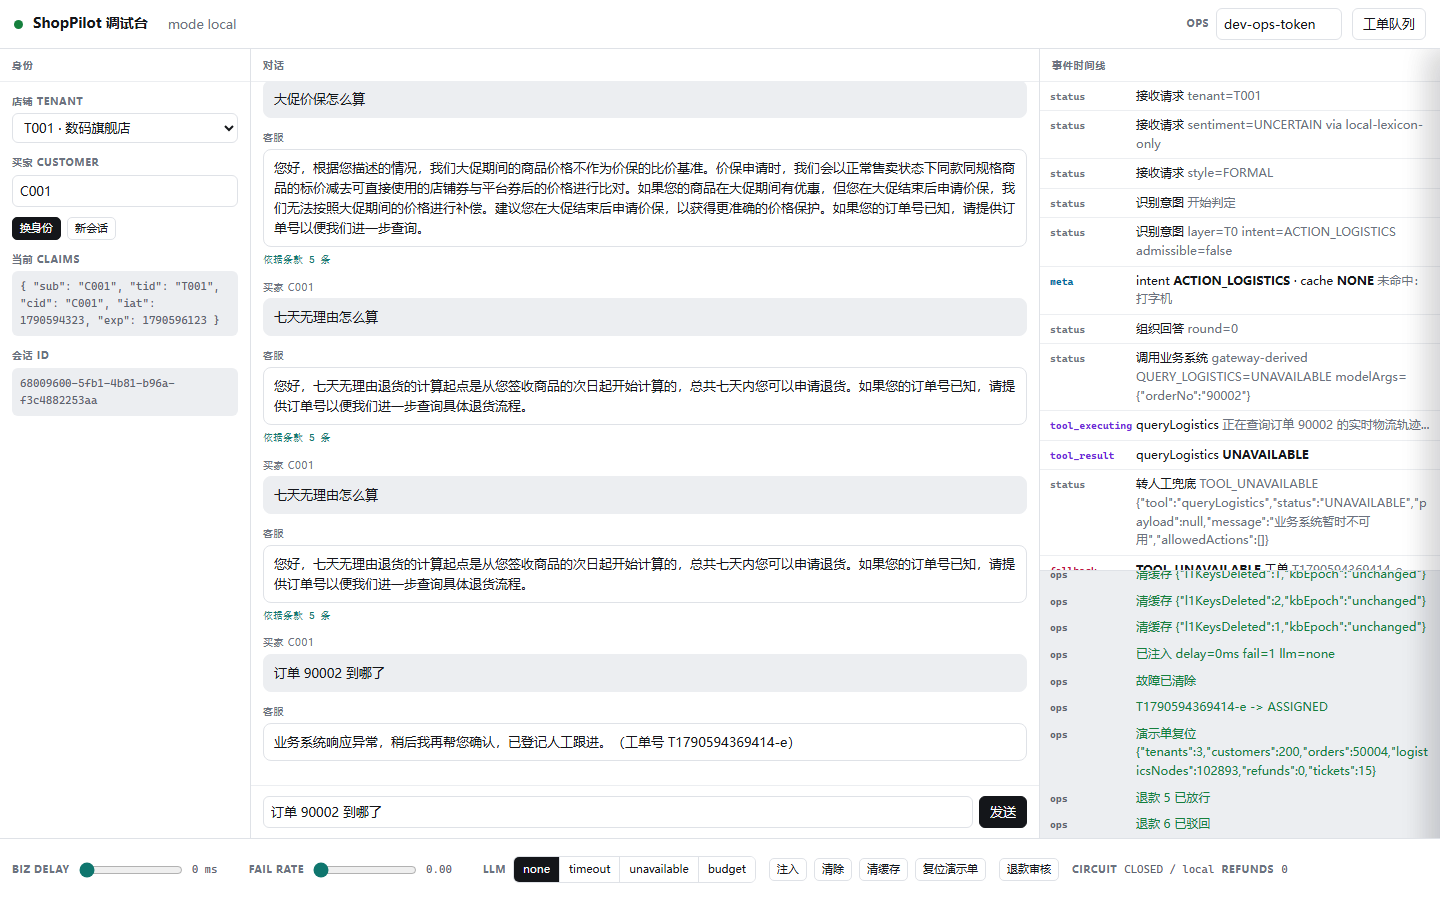
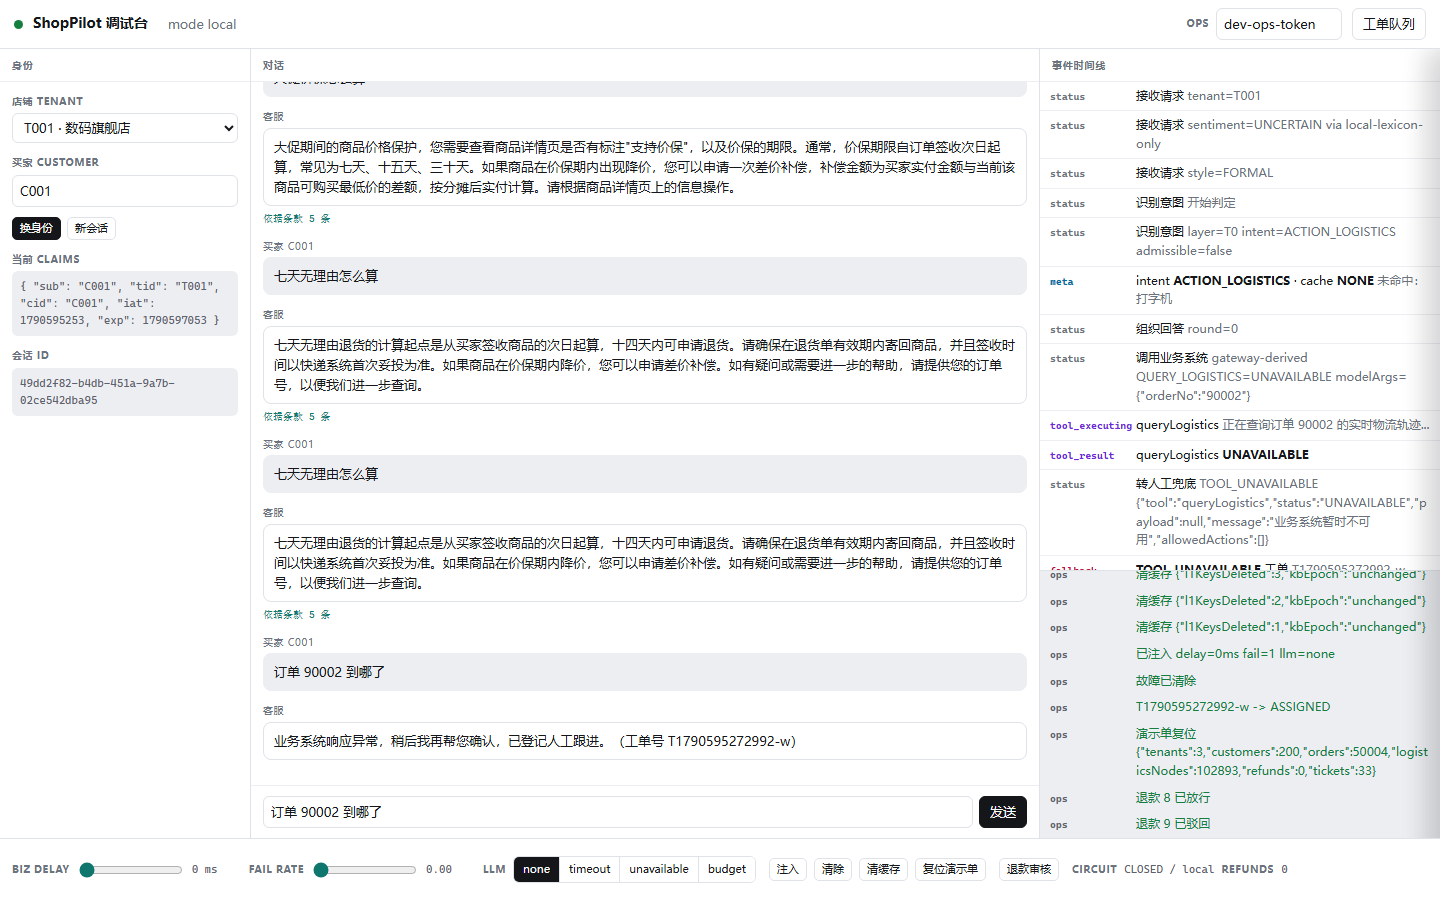
revert: 回退语料改动 —— 顶层 knowledge/ 是审计的内容级禁面（B7）
上一步（6df16c2）我按 QA 报告直接改了三份政策语料（return-01 的「十四天」矛盾、
return-07 / promo-08 的 T001 店名与 seed 不一致），并做完连锁（重入库 → 纪元 4→5 →
夹具重录 → CI 哈希钉换代）。**收口审计当场报 B7：`knowledge/` 政策语料是内容级禁面** ——
它定义系统答什么，改它等于静默改判据面，所以那一步越界了。

处置：
- **回退三份语料**（改回原文），重入库（纪元 5→6）、夹具重录（8f3ee90a…）、哈希钉再换代
- 该缺陷**移到「登记不执行」**：修它要动买家可见答案、也可能动 180 条 gold 的答案文本读数
  → 需要所有者点头（证据与两份 md 原文已写进 tracker 的 2026-09-28 登记段）
- 顺带把这条教训写进同一条目：**改语料前先看 B7 的禁面清单**

另外两处收尾：
- 审计 `G6_EXPECT` 换代 `[5, 29, 304]` → `[5, 29, 308]`（QA 补了 4 条 gateway 用例，全仓 342）
- 重跑调试台验收刷新读数：**43/43**（`7 chunks / 156 chars`）—— 上一次全量矩阵那次是
  `3 chunks / 60 chars`，正好卡在既有断言「正文 > 60 字」的下界上转红，并连带让审计的
  `G8`（它直接读 console 日志的 chunks/chars）也红。**两处阈值都不动**（缩到 50 就是改窄判据），
  按模型方差登记，与 `feedback` 的间歇同族。

diff --git a/.scratch/shoppilot-mvp/round3-closeout-audit.py b/.scratch/shoppilot-mvp/round3-closeout-audit.py
@@ -92,10 +92,9 @@ _DEF_LANDED = 0
 # 票 46 换代：`3 + 21 + 250`（274）→ `3 + 21 + 253`（277）——仍只动 gateway：ADR 0043 新增 3 条
 # （`GatewayMainPathJvmTest.cacheHitPathStaysZeroModelCallsInLocalMode` 回归、
 # `SentimentGateTest.localModeIsLexiconOnly` 机制、`SentimentGateTest.devModeStillUsesTheLlmLayer` 正对照）。
-# round22 换代：`5 + 29 + 290`（324）→ `5 + 29 + 304`（338）。gateway +14：
-# 票 64 的 `RetrievalFusionReplayTest` 5 条 + `MarkdownChunkerTest` 6 条（同交付，还 CODE_MAP 那笔债）、
-# 票 66 的 `LlmTokenSourceLabelTest` 3 条；tool-api 与 biz-mock 本轮未动。
-G6_EXPECT = [5, 29, 304]
+# round22 收口后（QA 走查补了 4 条用例：空答案守卫 / 派生工具进 plan / 命中路径 ruleIds 镜像 /
+# 回放话术不泄漏内部枚举）→ gateway 308，全仓 `5 + 29 + 308`（342）。
+G6_EXPECT = [5, 29, 308]
 G6_CLAIM = "G6 surefire {} = {}（build 与 unit 两份日志的 Results 段各自核过）".format(
     " + ".join(str(x) for x in G6_EXPECT), sum(G6_EXPECT))
 

diff --git a/.scratch/shoppilot-mvp/README.md b/.scratch/shoppilot-mvp/README.md
@@ -34,7 +34,7 @@
 - 2026-09-28：**round21 收口（票 59-63，ADR 0046/0047 的所有者政策覆盖）**——把「闭环的最后一公里」补齐：**票 59** 退款审批闸门（受理与放行拆两态，`ToolStatus.PENDING_APPROVAL` + 声明式审批策略 + 推导回滚 + 审核端点；**核心判断：HITL 不必是对话轮次，可以是状态迁移的门**，故 ADR 0008 的 2 轮预算与 ADR 0036 的 Plan ≤2 步一字未动）；**票 60** 买家读回（`OrderView.refundReview` 三态 + 到账边界写进 `ToolResponse.message`）；**票 61** 调试台审核面板（网关代理 + 第二个抽屉；顺带实测定位一处真实坑：**页面发的请求不带 `idempotencyToken`，网关派生确定性 token，`#btnDemo` 复位只清库不清 Redis** → 重发退款请求命中 `IDEMPOTENT_REPLAY`、闸门走不到）；**票 62** 活体验收 `verify-refund-approval.ps1` **7/7 PASS**；**票 63** 本收口。**读数**：JVM `3 + 21 + 287 = 311` → **`5 + 29 + 290 = 324` 绿**；覆盖率 gateway **59.75%** / biz-mock **79.30%** / tool-api **47.95%**（门槛 54.0/76.0/40.0）；指标名 **52 → 53**（+`shoppilot_refund_pending_total`）。**活体全套补做**：`verify-refund-approval.ps1` 7/7、`verify-idempotency.ps1` exit 0（**关闭票 58 那条一直挂着的未达成**）、`verify-console.mjs` **40/40**、`verify-action-loop.ps1` **11/11**；全量矩阵（22 步 → **23 步**）落点 `logs/acceptance-run-20260928-050418.log`（**606 s、21 绿 / 2 红**，红仍是 `feedback`、`plansteps` 两条登记项）。**离线 rescore** `cases=180 files=6 tool_diff=4`（gold 一字未改）。**未达成照登**：gold 180 条活体重跑需 dev 额度未做；本地 3B 对「我那退款到哪了」判 `ACTION_REFUND` 后不调 `queryOrderDetail`，该措辞下买家读回落空（登记给后续轮次）；`stack` 步在本机内存压力下构建期 OOM（第二次 `-SkipStack` 复用已起的栈）。**一条判据都没改。**
 - 2026-09-28：**round22 开轮（票 64-68，ADR 0048 + 0049/0050/0051）**——主题是「RAG 的机器背书」，承接 ADR 0046 的 Consequences（round21 只做闭环那一格，这一格登记给本轮）。触发物是 round21 期间对仓核实出的三条：`eval_suites.py` 的 24 条夹具四个 kind 都**不读** `ruleIds`/RRF 序（改坏融合没人会红）、唯一那份 RAG 证据的 16 条查询 `dense` 与 `hybrid` **名次全同**、评测四列都是单维请求质量而**没有一列是端到端终局**。**逐票依据分两类、不许混称**：**65（task 判据）**依据 round19 登记第 4 项的触发原文（「有人提出一条能机器判定『任务是否办成』且现有门禁承载得了的判据」）→ **触发已到**；**67（告警 + `promtool test rules`）**依据 ADR 0030 第 5 条 → **触发已到**（ADR 0024 排除告警的理由「写了只能证语法、证不了该响时会不会响」被 promtool 的合成序列断言**直接推翻**，且满足那份 ADR 的总筛子）；**64（检索录放门）与 66（token `source` 标签）**→ **政策越过**，其中**票 64 的触发条件就是它自己**（「出现可离线复跑的录制/回放路径」），引自己当依据是循环论证，**收口时不许讲成「登记第 5 项的触发已成立」**。**票 64 的诚实分界**：它守排序流水线的确定性与四个常数、语料 sha、夹具完整性，**不覆盖活体 hit@5 准确率，因此不闭合 round19 登记第 5 项**。四份 ADR 的分工：0048 轮范围与逐票依据、0049 检索录放门守什么/不守什么、0050 task 判据为何单独成列不给总分、0051 告警为何算触发已到 + promtool 的引入代价（往刻意零依赖的 CI 子集里加一个需下载的二进制，局限在一步内可 pin 可审）。**本次开轮用 `/grill-with-docs` 走了决策树；第 2-6 项（ADR 结构 4 份 / promtool 用 curl 固定版本 / 告警 4 条 / 票 66 保留 / 顺序 65→67→64→66→68）起草时是我在两次未收到答复后按 best judgment 先定的默认值，**收口后已由所有者确认「五项全照默认」**（2026-09-28），故现均为有据的裁定。** 本轮**不改任何判据/阈值/gold/分母**。
 - 2026-09-28：**round22 收口（票 64-68，ADR 0048 的所有者开轮 + 0049/0050/0051）**——补的是「谁在机器上守着这条链」。**票 64** 检索融合录放门：`rrf()` 与 `Scored` 放开到包级可见（零行为改动，重算必须调**生产那一份**实现），`RetrievalFusionReplayTest` 由录制的两路序重算融合、四个常数用 Spring `Binder` 从生产 `application.yml` 绑定、语料 sha 现算；夹具 `eval/retrieval-fixture-20260928.json` 10 条 case **10/10 在 top-5 上 dense≠fused**（原 16 条查询按文件名前缀比是 0/16 —— 对融合判别力为零，正是本票要修的病）；`scripts/retrieval_gate.py` 只校验不复算（schema、`fused ⊆ dense ∪ lexical`、语料 sha、常数、CI 哈希钉）+ 录制器 `scripts/record_retrieval_fixture.py`（三道拒绝：任一路空/degraded、走了意图兜底、两次不一致）；**同交付 `MarkdownChunkerTest`，还掉 `CODE_MAP.md:91` 那笔债**。**票 65** task 级判据：只读 `plan[]`/`context.ruleIds`/`fallbackReason` 三个既有字段（零新增后端代码），`task_done` **单独成列、不给总分、不并入四列**；14 条夹具含反例 A（四列绿、任务红）与反例 B（工具列红、任务绿）两条机器证明。**票 66** `source` 标签：加标签不加名 → **指标名仍是 53，本轮不换代**。**票 67** 告警最小集 + `promtool test rules`：4 条规则 × 两侧断言全过，**实测抓到一处会静默失效的写法**（`rate(fallback)/rate(requests)` 两侧标签集不同 → PromQL 默认不匹配 → 规则永不触发而 `check rules` 照样 SUCCESS；两侧 `sum()` 才对），**变异对照实测**为真。**读数**：JVM `5 + 29 + 304 = 338` 绿；覆盖率 gateway **62.79%**；指标名 53；CI 五步 → **八步**；本机矩阵 23 步 → **25 步**，落点 `logs/acceptance-run-20260928-134721.log`（**786 s、23 绿 / 2 红**，红仍是 `feedback`、`plansteps`）。**收口审计 PASS 86 / FAIL 1 / SKIP 8**（唯一一红 `F1c` 是 round20 那笔不可逆的本机日志删除；20 个提交推送后 `A1` 转绿）。**未达成照登**：**票 64 不闭合 round19 登记第 5 项**（不覆盖活体 hit@5）；**gold 180 条活体重跑是「条件不成立」**——`.env` 有云端 key 但日预算 `260000` < 180 条所需约 40-60 万，不越 ADR 0012 的预算闸门（放开 = 抬到 ≥60 万或分两天跑）；票 67 的 CI 步未在干净 runner 实跑（本机到发布 CDN 不可达，故按发布方 `sha256sums.txt` 校验而非仓内硬编码 hash）。**票 65 的活体正例已补**（显存空出来后 `--task` 得 `task_done 3 / 没办成 0 / 未观测 0`，更早那次 `1/2/0` 是环境红，两次并列供着）。**一条判据都没改。**
-- 2026-09-28：**黑盒 QA 走查后的修复与登记（Persona-QA-Simulator ×2）**——两个画像（买家对话/API 面、调试台/运维可观测面）在活体上探索，报回 6 条 S 级 + 若干摩擦。**修掉 8 处，全部属「事实错误 / 契约没兑现」，一条判据都没动**：
+- 2026-09-28：**黑盒 QA 走查后的修复与登记（Persona-QA-Simulator ×2）**——两个画像（买家对话/API 面、调试台/运维可观测面）在活体上探索，报回 6 条 S 级 + 若干摩擦。**修掉 7 处，全部属「事实错误 / 契约没兑现」，一条判据都没动**：
   1. **空答案守卫**（S）：模型既不发工具也不给正文时，此前返回 `HTTP 200 + answer:"" + 无工单`，买家什么也没拿到、也没有可查出口 —— 与 ADR 0009 直接冲突。现落 `LLM_CIRCUIT_OPEN` 降级 + 工单（**不新增枚举值**，避免改动「枚举 10 / 降级 9」口径）。
   2. **网关派生的工具执行漏记 `plan`**（S）：`toolUsed=true` 与 `plan=[]` 同现，违反票 48 的契约，并让票 65 的 `task_done` 在派生读路径上误判。现已补记 plan 步。
   3. **缓存命中路径 `context.ruleIds` 未镜像 citations**：票 49 的不变量在命中路径不成立（实测 citations 5 条而 ruleIds 空）。现已镜像（另两格照实为零 —— 命中路径没有 Prompt）。
@@ -42,7 +42,8 @@
   5. **追问话术把真实他人订单号当示例**：`例如 10023` 按 seed 编号规则是 T001 内买家 C155 的真实单号，买家照抄只会拿到 `NOT_FOUND` → 去掉示例数字（工具 schema 里的示例值仍由票 56 的溯源守卫兜着）。
   6. **退款审核面板**（S）：放行是**不可逆**的资金动作却一键即放款 → 加二次确认（回显订单号 + 金额）并防连点（实测三连点会打出三条相同 POST）；被拒时改用下游 `body.message`（此前只报 `409`，把下游已有的可读原因丢了）；补**退款原因**显示（`RefundView` 透出 `reason`）；加 loading 态。
   7. **前端网络级失败**（S）：fetch reject 时读数格冻结在初始 `-`、抽屉停在「尚未拉取」，并抛 3 条未捕获 Promise → 现在统一走既有的「读不到 + 为什么」分支（`api()` 一处收口）。
-  8. **语料自相矛盾**（S，买家可见）：`return-01` 正文写「**十四天**内可申请七天无理由退货」（与标题/README 的七天冲突，实测同一问题给出 7/14/15 三种答案）；`return-07` 与 `promo-08` 把 T001 的店名写成「星选生活旗舰店」（seed 里是「数码旗舰店」）→ 均已改对。**语料一改即连锁**：纪元 4 → 5、检索夹具重录（`db23795a…`）、CI 哈希钉换代 —— 三件都做完并复核过。
+- 2026-09-28：**同一轮 QA 的四项"登记不执行"**（触发条件写明，不许当成已修）：
+  - **语料自相矛盾（本轮我先改了、又按纪律回退）**：`return-01` 正文写「**十四天**内可申请七天无理由退货」（与标题/README 的七天冲突，实测同一问题给出 7/14/15 三种答案）；`return-07` 与 `promo-08` 把 T001 的店名写成「星选生活旗舰店」（seed 里是「数码旗舰店」）。**我一开始直接改了三份语料并做完连锁（重入库 → 纪元 4→5 → 夹具重录 → 哈希钉换代），收口审计当场报 `B7 本轮窗口未碰内容级禁面` —— 顶层 `knowledge/` 政策语料是审计的**内容级禁面**（它定义系统答什么，改它等于静默改判据面）**。处置是**回退语料**（纪元 5→6、夹具与哈希钉再换代一次），并把这条登记在此：**修它需要所有者点头**（改动会改买家可见答案，也可能动 180 条 gold 的答案文本读数）。证据：上述两份 md 原文 + `/ops/tenants` 返回 `T001=数码旗舰店`。
 - 2026-09-28：**同一轮 QA 的三项"登记不执行"**（触发条件写明，不许当成已修）：
   - **「退款到哪了」这类措辞的读回**：round21 已登记过（原口径是「读回落空」），本次实测**更重** —— 放行态会给出**与事实相反**的结论（说「已发货，无法退款」）、驳回态给非答案。**登记级别上调**，并补上这条证据。修它要动 triage 或强制先读 `queryOrderDetail`，两者都碰 180 条 gold 的面 → 触发 = gold 回归额度到位（见下）或所有者裁定。
   - **追问中途换话题/取消没有出口**：`CONTEXT.md:69` 已把「下一次输入是补全不是新诉求」锁定为设计，所以"不重判意图"可解释；要修的是**话术与取消出口**（现在把「换话题」说成「缺少必要信息无法办理」并多造一张工单）→ 属功能改动，触发 = 所有者裁定。

diff --git a/knowledge/return-07-shop-t001-window.md b/knowledge/return-07-shop-t001-window.md
@@ -1,5 +1,5 @@
 ---
-title: 数码旗舰店延长无理由窗口与上门取件
+title: 星选生活旗舰店延长无理由窗口与上门取件
 rule_type: SHOP_RETURN_POLICY
 applicable_category: ALL
 scope: SHOP
@@ -9,7 +9,7 @@ effective_from: 2026-03-01
 
 ## 本店无理由窗口延长至十五天
 
-数码旗舰店在平台七天无理由的基础上，将本店自营商品的无理由退货窗口延长至签收后十五日，延长部分同样要求商品保持完好，除外商品清单与平台规则一致，定制类、已激活数码类、贴身用品类不在延长范围内。十五日窗口自物流显示签收的当日零点起算，签收信息以平台对接的快递公司回传为准。买家在第七日至第十五日之间发起的无理由退货，走与七天无理由完全相同的流程，运费承担规则不变，即无理由退货运费由买家承担，含运费险的按运费险额度赔付。
+星选生活旗舰店在平台七天无理由的基础上，将本店自营商品的无理由退货窗口延长至签收后十五日，延长部分同样要求商品保持完好，除外商品清单与平台规则一致，定制类、已激活数码类、贴身用品类不在延长范围内。十五日窗口自物流显示签收的当日零点起算，签收信息以平台对接的快递公司回传为准。买家在第七日至第十五日之间发起的无理由退货，走与七天无理由完全相同的流程，运费承担规则不变，即无理由退货运费由买家承担，含运费险的按运费险额度赔付。
 
 ## 本店免费退的适用条件
 

diff --git a/knowledge/promo-08-shop-t001-member.md b/knowledge/promo-08-shop-t001-member.md
@@ -1,5 +1,5 @@
 ---
-title: 数码旗舰店会员日与店铺券规则
+title: 星选生活旗舰店会员日与店铺券规则
 rule_type: SHOP_PROMO
 applicable_category: ALL
 scope: SHOP
@@ -9,7 +9,7 @@ effective_from: 2026-04-01
 
 ## 本店会员日的优惠内容
 
-数码旗舰店会员日为每月八日，当日本店自营商品在平台优惠基础上额外享受店铺会员折上九折，折上折按扣除单品直降后的金额计算，与店铺券互斥、与平台券可叠加、与跨店满减可叠加。会员日优惠仅限已入会账号，入会免费，非会员在当日下单不享受折上折，事后不补差。当日零点至二十四点以订单创建时间判定，付款时间不影响。
+星选生活旗舰店会员日为每月八日，当日本店自营商品在平台优惠基础上额外享受店铺会员折上九折，折上折按扣除单品直降后的金额计算，与店铺券互斥、与平台券可叠加、与跨店满减可叠加。会员日优惠仅限已入会账号，入会免费，非会员在当日下单不享受折上折，事后不补差。当日零点至二十四点以订单创建时间判定，付款时间不影响。
 
 ## 本店券的有效期与范围
 

diff --git a/knowledge/return-01-7day-basic.md b/knowledge/return-01-7day-basic.md
@@ -9,7 +9,7 @@ effective_from: 2026-01-01
 
 ## 七天无理由退货的适用起点
 
-买家在签收商品的次日起零小时内开始计算，七天内可申请七天无理由退货，实际受理窗口以商品详情页标注的无理由天数为准。申请提交后系统生成退货单，买家需在退货单有效期内寄回商品，逾期未寄回的退货单自动关闭，关闭后可重新发起申请，但仍在原签收时效内。签收时间以快递系统首次妥投扫描为准，买家自行代收点取件的，以代收点入库扫描时间为签收时间。
+买家在签收商品的次日起零小时内开始计算，十四天内可申请七天无理由退货，实际受理窗口以商品详情页标注的无理由天数为准。申请提交后系统生成退货单，买家需在退货单有效期内寄回商品，逾期未寄回的退货单自动关闭，关闭后可重新发起申请，但仍在原签收时效内。签收时间以快递系统首次妥投扫描为准，买家自行代收点取件的，以代收点入库扫描时间为签收时间。
 
 ## 商品完好标准与影响二次销售
 
